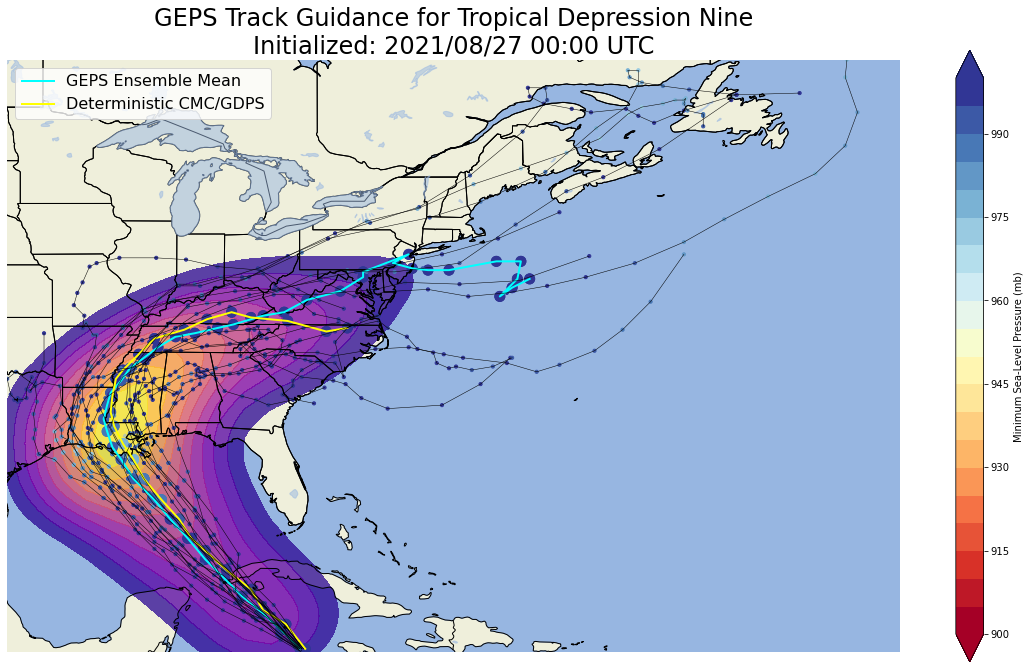
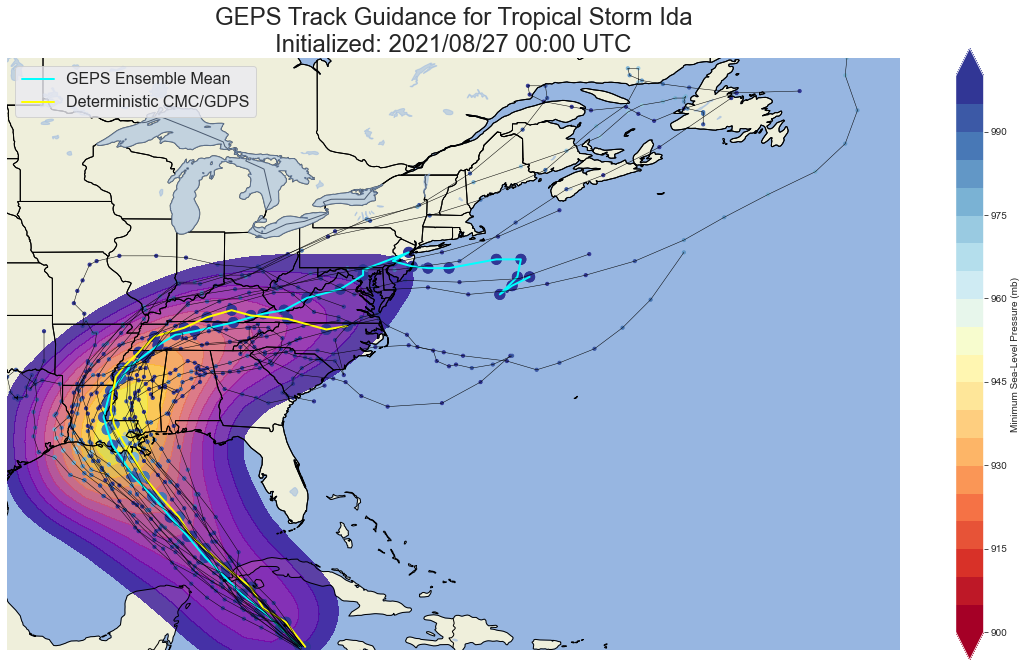
Removed vmax=,vmin=
This was redundant since we already have norm=. This was causing deprecation warnings in some versions of Cartopy.

diff --git a/atcf.py b/atcf.py
@@ -42,7 +42,7 @@ def density_estimation(m1,m2):
     return X,Y,Z
 
 # settings
-systemname = 'Tropical Depression Nine'     # formal name (e.g. "Hurricane Wilma")
+systemname = 'Tropical Storm Ida'           # formal name (e.g. "Hurricane Wilma")
 savedir = 'images'                          # output directory
 systemid = '09L'                            # system ID number (e.g. "09L")
 map_extent = [-100, -70, 10, 35]            # [west,east,south,north]
@@ -165,7 +165,7 @@ for a,b in enumerate(gefs_members):
         name=b.strip(' ')
         plt.plot(lons,lats,linewidth=width,color=col,transform=ccrs.PlateCarree())
     plt.scatter(lons,lats,c=gefs_latest[gefs_latest['MODEL']==b]['MSLP'],cmap=cmap,\
-        transform=ccrs.PlateCarree(),vmax=1000,vmin=900,s=size,norm=norm)
+        transform=ccrs.PlateCarree(),s=size,norm=norm)
 plt.colorbar(label='Minimum Sea-Level Pressure (mb)',shrink=0.75,extend='both')
 plt.legend(fontsize=16)
 plt.title('GEFS Track Guidance for %s\nInitialized: %s' % (systemname,gefs_init),size=24)
@@ -210,7 +210,7 @@ for a,b in enumerate(geps_members):
         name=b.strip(' ')
         plt.plot(lons,lats,linewidth=width,color=col,transform=ccrs.PlateCarree())
     plt.scatter(lons,lats,c=geps_latest[geps_latest['MODEL']==b]['MSLP'],cmap=cmap,\
-        transform=ccrs.PlateCarree(),vmax=1000,vmin=900,s=size,norm=norm)
+        transform=ccrs.PlateCarree(),s=size,norm=norm)
 plt.colorbar(label='Minimum Sea-Level Pressure (mb)',shrink=0.75,extend='both')
 plt.legend(fontsize=16)
 plt.title('GEPS Track Guidance for %s\nInitialized: %s' % (systemname,geps_init),size=24)
@@ -238,7 +238,7 @@ for a,b in enumerate(naefs_members):
         naefs_latest[naefs_latest['MODEL']==b]['LAT']
     plt.plot(lons,lats,linewidth=0.5,color='black',transform=ccrs.PlateCarree())
     plt.scatter(lons,lats,c=naefs_latest[naefs_latest['MODEL']==b]['MSLP'],cmap=cmap,\
-        transform=ccrs.PlateCarree(),vmax=1000,vmin=900,s=10,norm=norm)
+        transform=ccrs.PlateCarree(),s=10,norm=norm)
 plt.colorbar(label='Minimum Sea-Level Pressure (mb)',shrink=0.75,extend='both')
 plt.title('NAEFS Track Guidance for %s\nInitialized: %s' % (systemname,naefs_init),size=32)
 plt.savefig('%s/%s_naefs.png' % (savedir,systemid),bbox_inches='tight')
